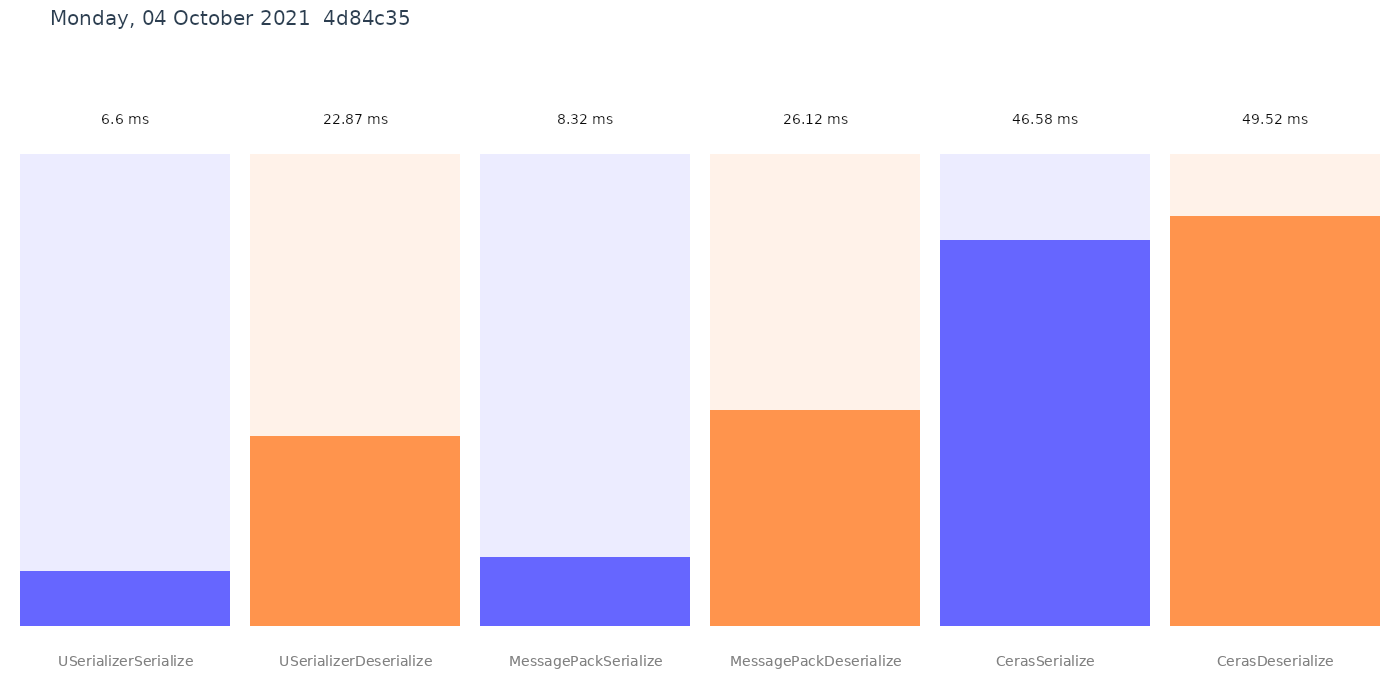
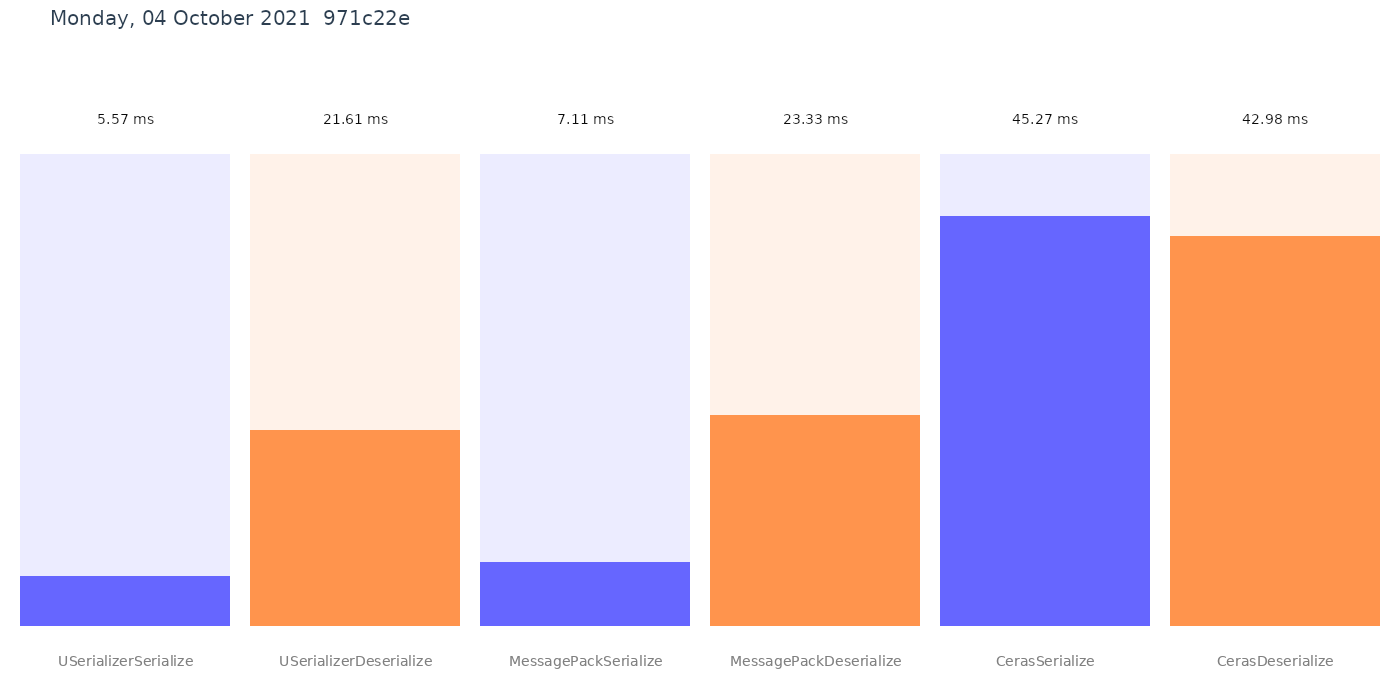
deploy: 971c22ef7ad14d78366d31a3d59af488d24f9644

diff --git a/performance.md b/performance.md
@@ -1,7 +1,7 @@
 ``` ini
 
 BenchmarkDotNet=v0.12.1, OS=ubuntu 20.04
-Intel Xeon CPU E5-2673 v4 2.30GHz, 1 CPU, 2 logical and 2 physical cores
+Intel Xeon Platinum 8272CL CPU 2.60GHz, 1 CPU, 2 logical and 2 physical cores
 .NET Core SDK=5.0.401
   [Host]   : .NET Core 5.0.10 (CoreCLR 5.0.1021.41214, CoreFX 5.0.1021.41214), X64 RyuJIT
   ShortRun : .NET Core 5.0.10 (CoreCLR 5.0.1021.41214, CoreFX 5.0.1021.41214), X64 RyuJIT
@@ -12,9 +12,9 @@ WarmupCount=3
 ```
 |                 Method |      Mean |     Error |    StdDev |
 |----------------------- |----------:|----------:|----------:|
-|   USerializerSerialize |  6.603 ms |  3.419 ms | 0.1874 ms |
-| USerializerDeserialize | 22.869 ms | 10.237 ms | 0.5611 ms |
-|   MessagePackSerialize |  8.316 ms |  4.566 ms | 0.2503 ms |
-| MessagePackDeserialize | 26.116 ms | 20.635 ms | 1.1311 ms |
-|         CerasSerialize | 46.583 ms | 29.370 ms | 1.6099 ms |
-|       CerasDeserialize | 49.519 ms | 22.897 ms | 1.2550 ms |
+|   USerializerSerialize |  5.568 ms | 0.0295 ms | 0.0016 ms |
+| USerializerDeserialize | 21.606 ms | 1.3718 ms | 0.0752 ms |
+|   MessagePackSerialize |  7.107 ms | 0.0366 ms | 0.0020 ms |
+| MessagePackDeserialize | 23.325 ms | 1.7770 ms | 0.0974 ms |
+|         CerasSerialize | 45.270 ms | 1.7706 ms | 0.0971 ms |
+|       CerasDeserialize | 42.978 ms | 1.7163 ms | 0.0941 ms |
